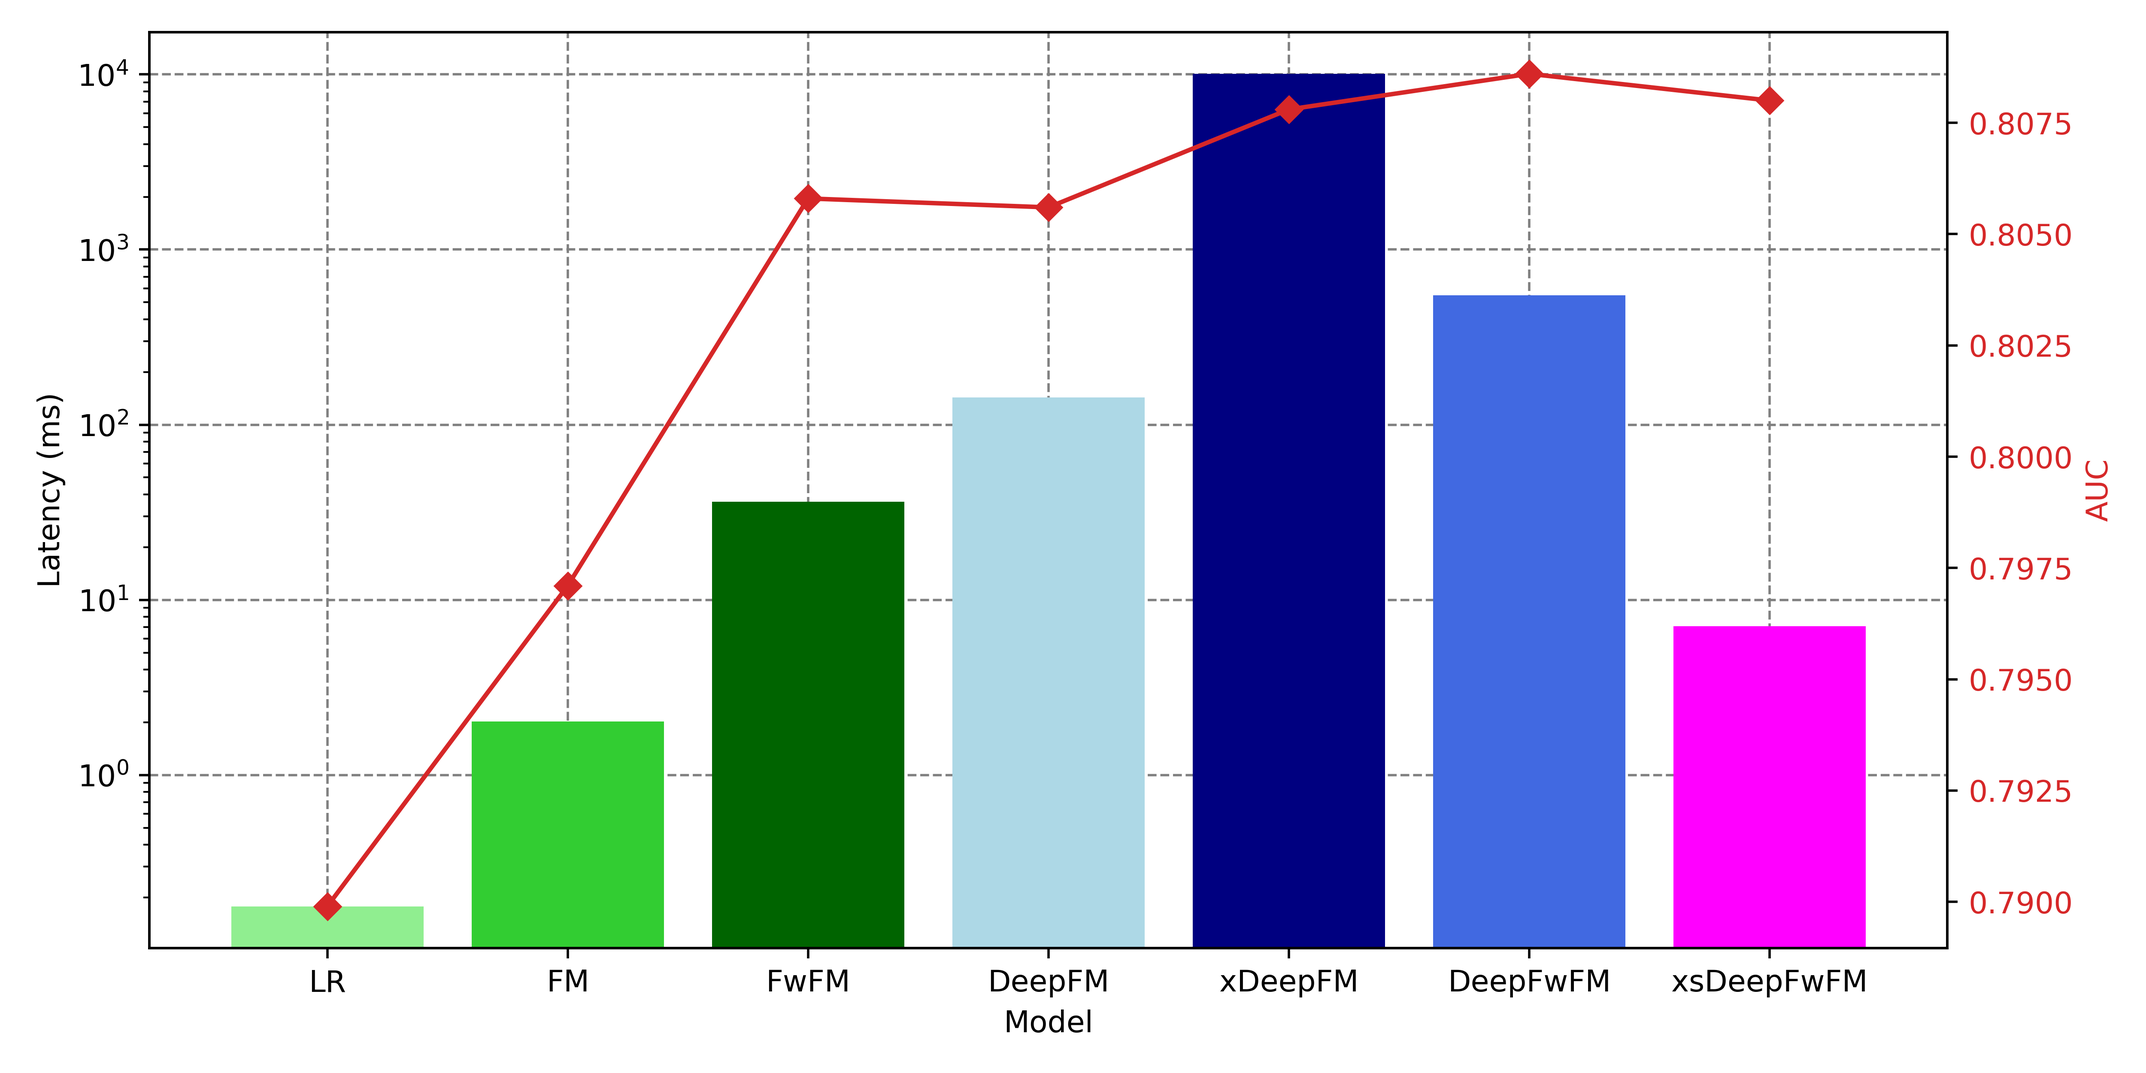
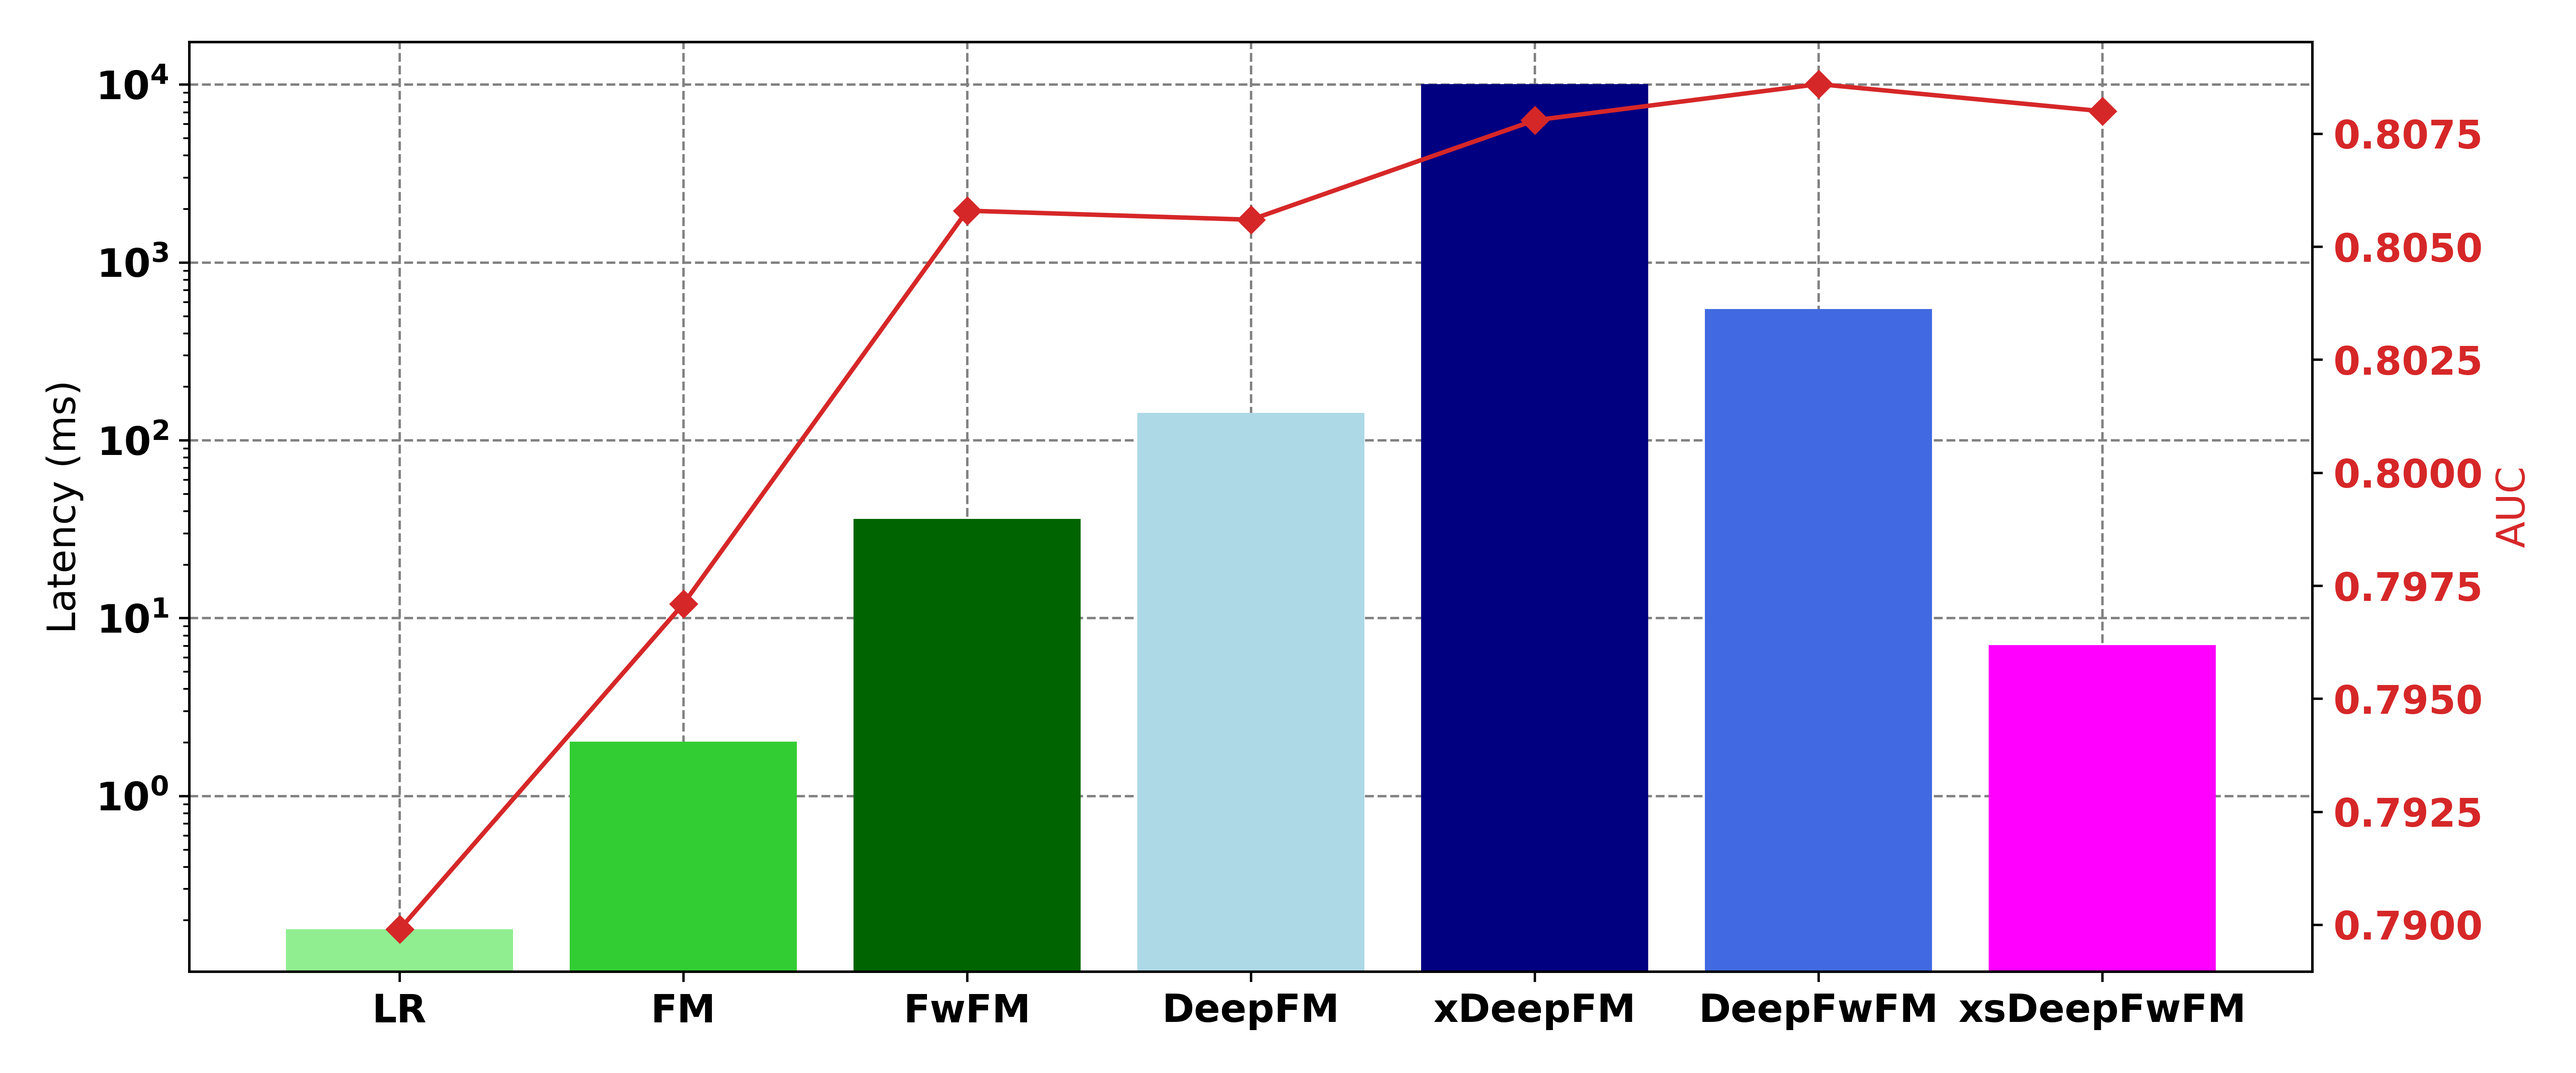
update plot

diff --git a/util/plot.py b/util/plot.py
@@ -1,4 +1,5 @@
 import matplotlib.pyplot as plt
+import matplotlib
 import numpy as np
 
 
@@ -84,18 +85,23 @@ def plot_latency_vs_auc_qr():
     ax2.tick_params(axis='y', labelcolor=color)
 
     fig.tight_layout()  # otherwise the right y-label is slightly clipped
-    fig.savefig('figures/qr_latency.png', dpi=300)
+    fig.savefig('../figures/qr_latency.png', dpi=300)
     plt.show()
 
 
 def plot_latency_vs_auc():
+    font = {'weight': 'bold',
+            'size': 13}
+
+    matplotlib.rc('font', **font)
+
     latency = [0.178, 2.018, 36.250, 142.776, 10080.782, 549.400, 7.062]  # 512
     auc = [0.7899, 0.7971, 0.8058, 0.8056, 0.8078, 0.8086, 0.8080]
 
-    fig, ax1 = plt.subplots(figsize=(10, 5))
+    fig, ax1 = plt.subplots(figsize=(12, 5))
 
     color = 'black'
-    ax1.set_xlabel('Model')
+    #ax1.set_xlabel('Model')
     ax1.set_ylabel('Latency (ms)', color=color)
     ax1.set_yscale('log')
     ax1.tick_params(axis='y', labelcolor=color)
